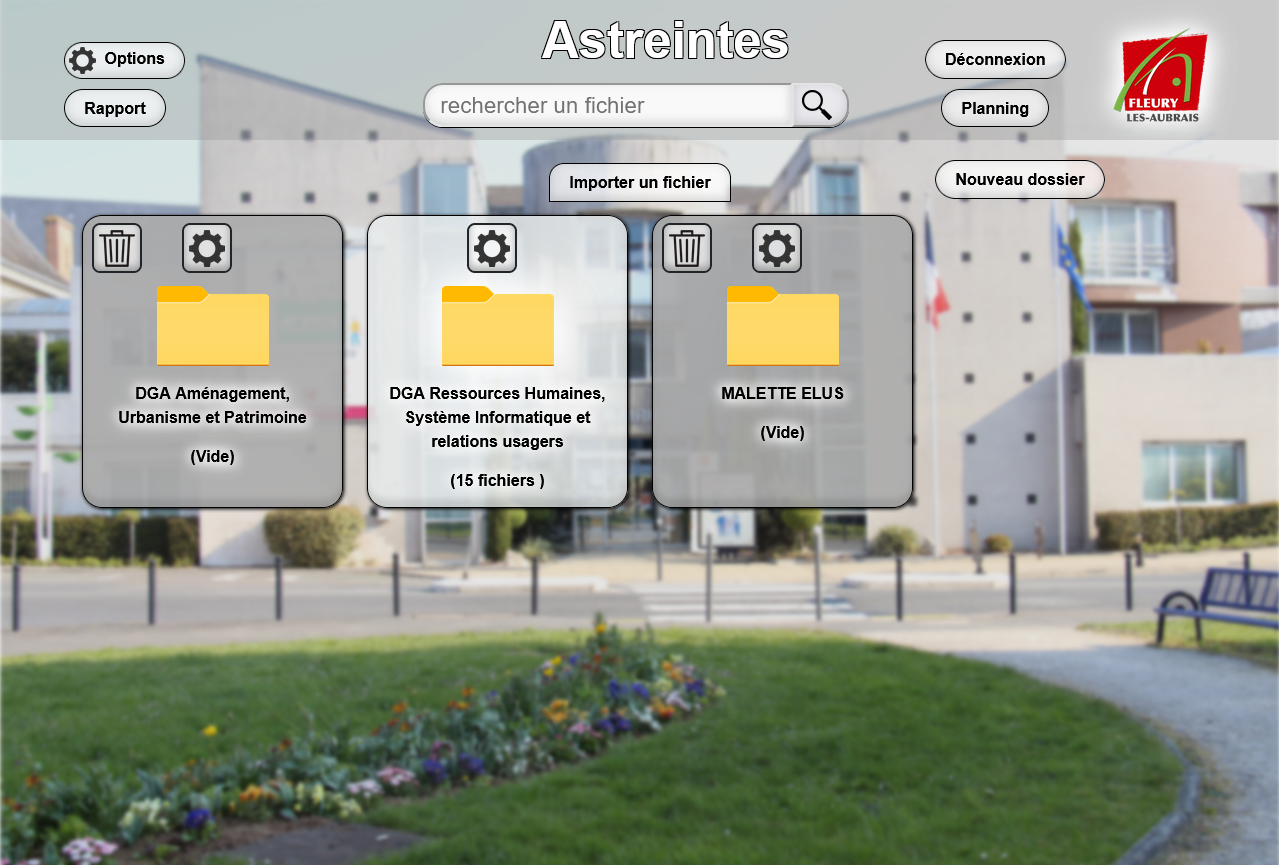
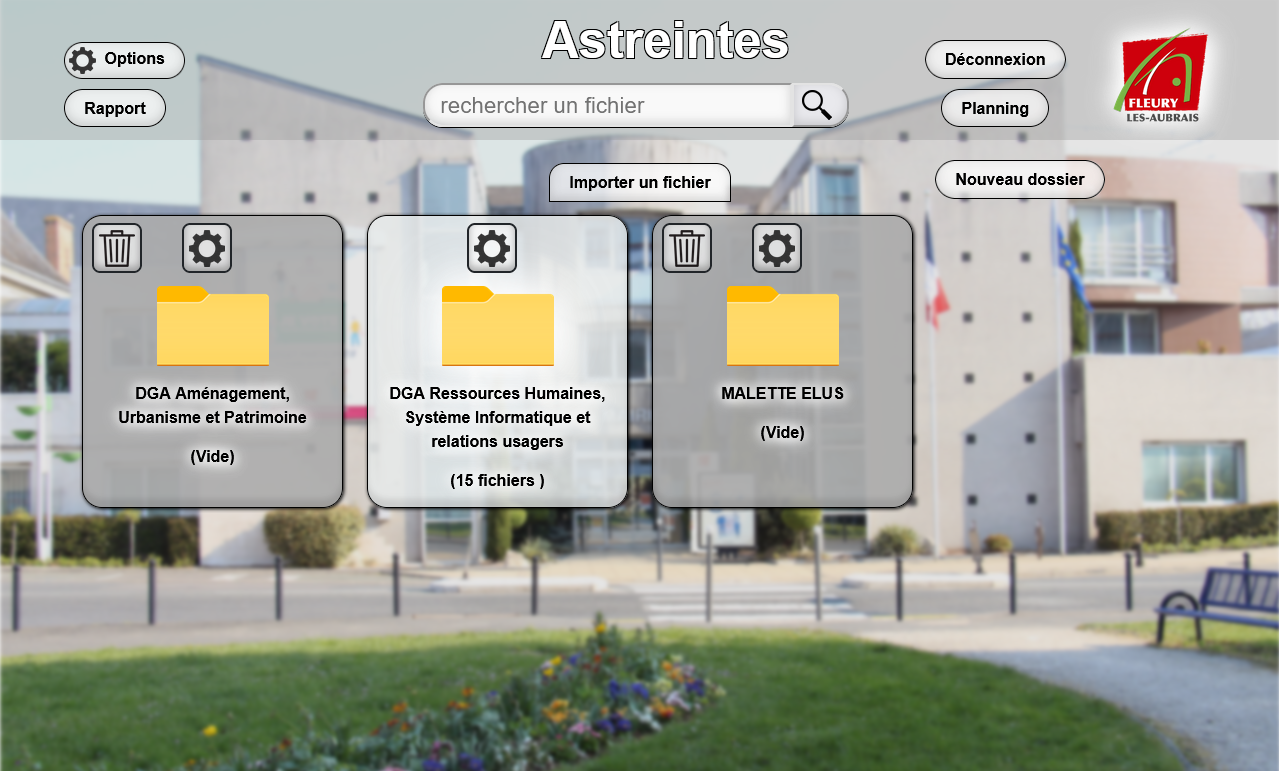
ammeliorations

diff --git a/css.css b/css.css
@@ -7,7 +7,7 @@ main{
     width:90%;
     margin-left: auto;
     margin-right: auto;
-    font-family: 'Amatic';
+    font-family: 'Arial';
     font-size: 1.7vw;
 }
 
@@ -16,11 +16,15 @@ h2 {
     font-size: 5vw;
 }
 
+h3 {
+  text-align: center;
+  font-size: 1.8vw;
+}
+
 .card {
     width: 25%;
     border-radius: 20px;
-    background-color: #282828;
-    margin-top: auto;
+    margin-bottom: auto;
     box-shadow: inset 0 -5px 5px rgba(255, 255, 255, 0), 0 1px 1px rgba(255, 255, 255, 0);
     transition: all 0.2s;
   }

diff --git a/index.php b/index.php
@@ -45,11 +45,11 @@
                 foreach ($projects as $aProject) {
 
                     echo    '<div class="card" onClick="document.location.href=\''.$aProject->link.'\'">
-                                <img src="img/'.$aProject->img.'" alt="Image du projet">
+                                <img src="logo2/'.$aProject->logo.'" alt="Image du projet">
                                 <div class="container">
-                                    <h3><b>'.$aProject->name.'</b></h3>'; 
+                                    <h3>'.$aProject->name.'</h3>'; 
                                     //echo '<p>'.$aProject->description.'</p>';
-                                echo '</div>
+                            echo '</div>
                             </div>';
                 }
             ?>
